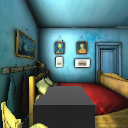
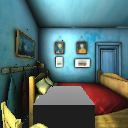
--tweaked and removed unnecessary downward light

Changed region(s): [[0.25, 0.6562, 0.75, 0.8438]]

diff --git a/src/esp/gfx/LightSetup.cpp b/src/esp/gfx/LightSetup.cpp
@@ -79,21 +79,18 @@ LightSetup getLightsAtBoxCorners(const Magnum::Range3D& box,
 
 LightSetup getDefaultLights() {
   return LightSetup{
-      {{0.0, -0.1, -1.0, 0.0},
+      {{0.0, -0.5, -0.5, 0.0},
        {0.5, 0.5, 0.5},
        LightPositionModel::Global},  // -z
-      {{0.0, -0.1, 1.0, 0.0},
+      {{0.0, -0.5, 0.5, 0.0},
        {0.5, 0.5, 0.5},
        LightPositionModel::Global},  // +z
-      {{-1.0, -0.1, 0.0, 0.0},
+      {{-0.5, -0.5, 0.0, 0.0},
        {0.5, 0.5, 0.5},
        LightPositionModel::Global},  // -x
-      {{1.0, -0.1, 0.0, 0.0},
+      {{0.5, -0.5, 0.0, 0.0},
        {0.5, 0.5, 0.5},
        LightPositionModel::Global},  // +x
-      {{0.0, -1.0, 0.0, 0.0},
-       {0.6, 0.6, 0.6},
-       LightPositionModel::Global},  // downward
   };
 }
 

diff --git a/src/tests/GfxReplayTest.cpp b/src/tests/GfxReplayTest.cpp
@@ -570,7 +570,7 @@ void GfxReplayTest::testLightIntegration() {
     const auto& keyframes = player->debugGetKeyframes();
     CORRADE_COMPARE(keyframes.size(), player->getNumKeyframes());
 
-    CORRADE_COMPARE(sim->getLightSetup().size(), 5);  // 5 default lights
+    CORRADE_COMPARE(sim->getLightSetup().size(), 4);  // 4 default lights
 
     player->setKeyframeIndex(0);
     CORRADE_COMPARE(sim->getLightSetup().size(), lightSetup0.size());
